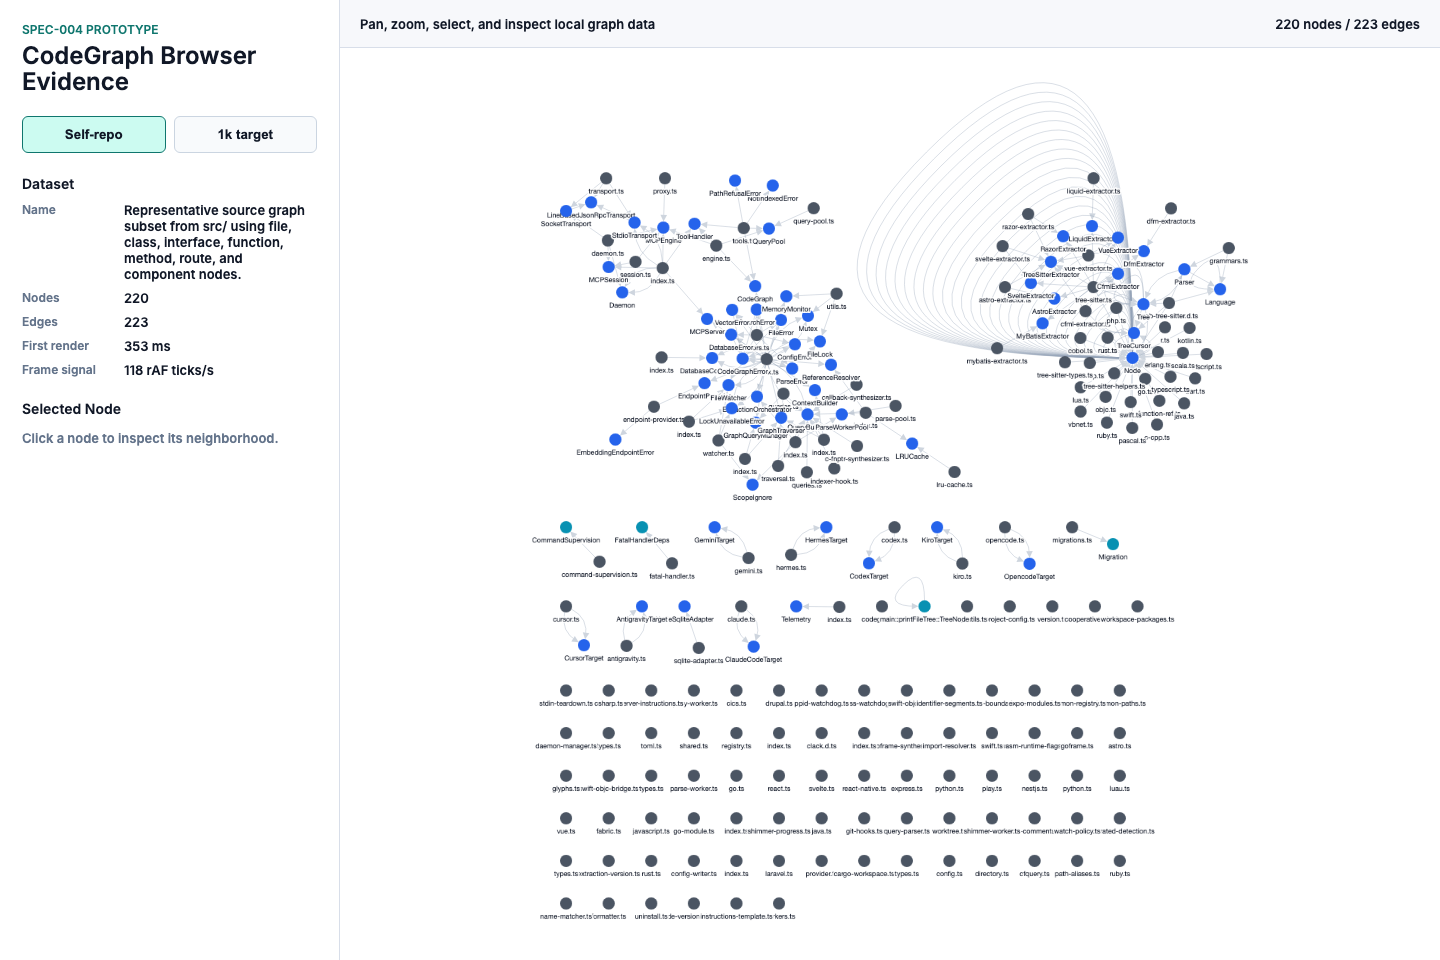
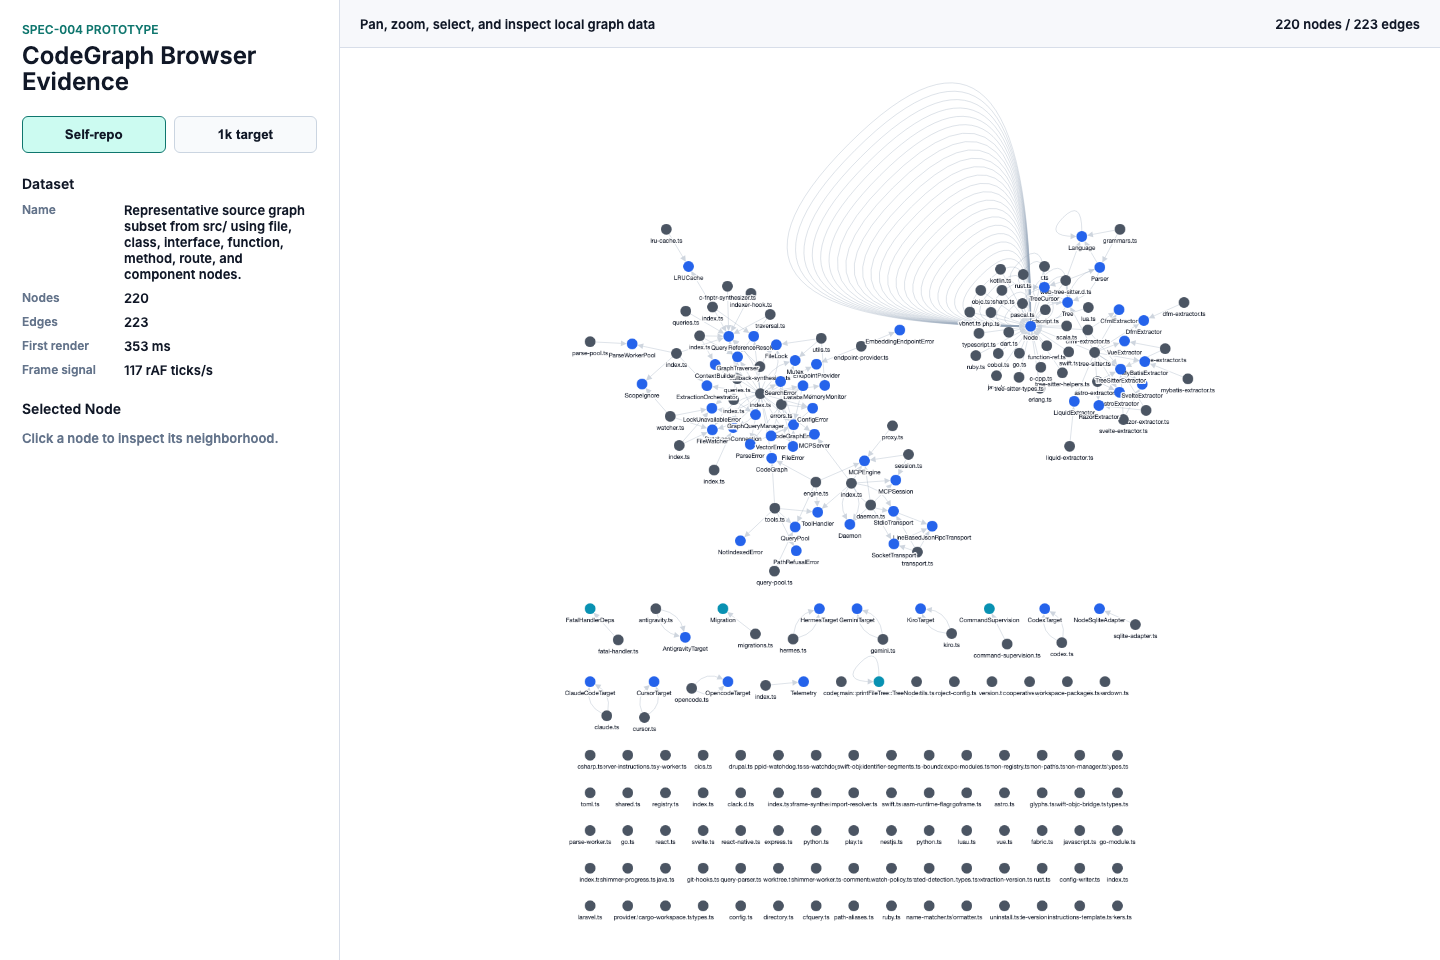
docs(SPEC-004): record manual UAT rerun

diff --git a/docs/design/web-framework-decision.md b/docs/design/web-framework-decision.md
@@ -212,6 +212,7 @@ Commands run:
 
 ```bash
 node dist/bin/codegraph.js init -i .
+node dist/bin/codegraph.js index
 node /tmp/spec-004-web-framework-research/export-codegraph-data.mjs .codegraph/codegraph.db /tmp/spec-004-web-framework-research/data
 cd /tmp/spec-004-web-framework-research/prototype
 npm install
@@ -228,14 +229,15 @@ Observed local results:
 
 | Evidence | Result |
 |----------|--------|
-| Worktree-local CodeGraph index | `codegraph init -i .` under Node 22.22.2 indexed 404 files, 5,830 nodes, and 23,848 edges in 2.3s. |
+| Worktree-local CodeGraph index | Existing initialized worktree confirmed with `codegraph init -i .`; `codegraph index` under Node 22.22.2 refreshed 404 files, 5,830 nodes, and 23,848 edges in 2.4s. |
 | Self-repo dataset | `/tmp/spec-004-web-framework-research/data/self-repo-graph.json`, 220 nodes and 223 edges, selected from `src/` file/class/interface/function/method/route/component nodes. |
 | 1k target dataset | `/tmp/spec-004-web-framework-research/data/one-k-node-target.json`, 1,000 nodes and 2,500 edges from the worktree-local CodeGraph index. |
-| Prototype install | `npm install` added 20 packages with 0 vulnerabilities; Playwright was installed as a temporary dev dependency for browser capture only. |
+| Prototype install | `npm install` and `npm install -D playwright` completed with 0 vulnerabilities; Playwright was a temporary dev dependency for browser capture only. |
 | Prototype build | `npm run build` passed; Vite reported `dist/index.html` 0.41 kB, CSS 1.39 kB gzip 0.64 kB, JS 630.81 kB gzip 199.44 kB, with the expected 500 kB chunk-size advisory. |
-| Screenshot capture | Local Playwright Chromium capture at 1440x960. The bundled REPL Playwright package existed but had no cached Chromium binary, so the run used temporary prototype-local Playwright after `npx playwright install chromium`. |
-| Self-repo render | First visible render 353 ms; frame signal 118 `requestAnimationFrame` ticks/sec. |
-| 1k target render | First visible render 139 ms; frame signal 102 `requestAnimationFrame` ticks/sec. |
+| Screenshot capture | Local Playwright Chromium capture at 1440x960 using temporary prototype-local Playwright after `npx playwright install chromium`. |
+| Self-repo render | First visible render 353 ms; frame signal 117 `requestAnimationFrame` ticks/sec. |
+| 1k target render | First visible render 145 ms; frame signal 102 `requestAnimationFrame` ticks/sec. |
+| Browser interaction and network audit | Playwright switched to the 1k dataset, zoomed the canvas, selected a node (`goframe-synthesizer.ts`), and recorded 12 browser requests with 0 non-local requests. |
 
 Prototype interaction observations:
 
@@ -299,7 +301,7 @@ Captured assets:
 
 | Asset | Caption |
 |-------|---------|
-| `docs/design/assets/spec-004/self-repo-graph.png` | Self-repo CodeGraph subset, 220 nodes and 223 edges, captured by local Playwright Chromium at 1440x960. Visible labels include parser/extractor, CLI, and target-related source nodes. Primary controls show dataset switcher, pan/zoom graph canvas, selected-node panel, and metrics. Frame signal: 118 rAF ticks/sec. |
+| `docs/design/assets/spec-004/self-repo-graph.png` | Self-repo CodeGraph subset, 220 nodes and 223 edges, captured by local Playwright Chromium at 1440x960. Visible labels include parser/extractor, CLI, and target-related source nodes. Primary controls show dataset switcher, pan/zoom graph canvas, selected-node panel, and metrics. Frame signal: 117 rAF ticks/sec. |
 | `docs/design/assets/spec-004/one-k-node-target.png` | 1k-node/60fps target, 1,000 nodes and 2,500 edges, captured by local Playwright Chromium at 1440x960. The graph shows a dense 1k-node canvas with labels and colored node-kind groups. Primary controls show dataset switcher, graph canvas, metrics, and selected-node panel. Frame signal: 102 rAF ticks/sec. |
 
 ## Self-Repo UAT Criteria

diff --git a/specs/004-web-framework-research-spike/.process/pr-body.md b/specs/004-web-framework-research-spike/.process/pr-body.md
@@ -37,7 +37,7 @@ Use the UAT runbook below for reviewer-facing acceptance checks. Treat installed
 
 # SPEC-004 UAT Runbook
 
-Status: Completed SPEC-004 UAT runbook with prototype, screenshot, verification, and final result evidence.
+Status: Completed SPEC-004 UAT runbook with prototype, screenshot, verification, and final result evidence. Manual UAT was rerun on 2026-07-05.
 
 ## Purpose
 
@@ -111,17 +111,17 @@ Expected result: No hosted runtime service is required. If any hosted runtime de
 
 ## Result Log
 
-Completed during SPEC-004 tasks.
+Completed during SPEC-004 tasks and rerun on 2026-07-05.
 
 | Check | Command or method | Outcome | Evidence path or note |
 |-------|-------------------|---------|------------------------|
 | Build | `npm run build` | Pass | Build exited 0. |
 | Test | `npm test` | Pass | 132 test files, 2,223 tests passed, 4 skipped. |
-| Self-repo data export | `codegraph init -i .` under Node 22.22.2, then `/tmp/spec-004-web-framework-research/export-codegraph-data.mjs` | Pass | Worktree-local index: 404 files, 5,830 nodes, 23,848 edges. Self dataset: 220 nodes, 223 edges. |
-| Prototype local run | `/tmp/spec-004-web-framework-research/prototype`, `npm install`, `npm run build`, `npm run dev -- --port 4174` | Pass | Vite + React + Cytoscape.js prototype built and served locally. |
-| Self-repo screenshot or fallback | `node capture-screenshots.mjs` with local Playwright Chromium | Pass | `docs/design/assets/spec-004/self-repo-graph.png`; 1440x960; first render 353 ms; 118 rAF ticks/sec. |
-| 1k-node screenshot or fallback | `node capture-screenshots.mjs` with local Playwright Chromium | Pass | `docs/design/assets/spec-004/one-k-node-target.png`; 1440x960; first render 139 ms; 102 rAF ticks/sec. |
-| No hosted runtime service | Prototype network path inspected by construction: local Vite server + local `/data/*.json` only | Pass | Implementation-time package/doc access used network; selected runtime path did not require hosted services or CDN assets. |
+| Self-repo data export | `node dist/bin/codegraph.js index` under Node 22.22.2, then `/tmp/spec-004-web-framework-research/export-codegraph-data.mjs` | Pass | Worktree-local index: 404 files, 5,830 nodes, 23,848 edges in 2.4s. Self dataset: 220 nodes, 223 edges. |
+| Prototype local run | `/tmp/spec-004-web-framework-research/prototype`, `npm install`, `npm install -D playwright`, `npx playwright install chromium`, `npm run build`, `npm run dev -- --port 4174` | Pass | Vite + React + Cytoscape.js prototype built and served locally. |
+| Self-repo screenshot or fallback | `node capture-screenshots.mjs` with local Playwright Chromium | Pass | `docs/design/assets/spec-004/self-repo-graph.png`; 1440x960; first render 353 ms; 117 rAF ticks/sec. |
+| 1k-node screenshot or fallback | `node capture-screenshots.mjs` with local Playwright Chromium | Pass | `docs/design/assets/spec-004/one-k-node-target.png`; 1440x960; first render 145 ms; 102 rAF ticks/sec. |
+| No hosted runtime service | Playwright request audit against local Vite server and `/data/*.json` files | Pass | 12 browser requests, 0 non-local requests. Implementation-time package/doc access used network; selected runtime path did not require hosted services or CDN assets. |
 | Final UAT result | Review decision doc, screenshots, and verification floor | Pass with limitation | Limitation: production large-graph UX, accessibility, search/filter/details polish, and WebGL runner-up validation remain SPEC-006 work. |
 ## Verification
 

diff --git a/specs/004-web-framework-research-spike/.process/uat-runbook.md b/specs/004-web-framework-research-spike/.process/uat-runbook.md
@@ -1,6 +1,6 @@
 # SPEC-004 UAT Runbook
 
-Status: Completed SPEC-004 UAT runbook with prototype, screenshot, verification, and final result evidence.
+Status: Completed SPEC-004 UAT runbook with prototype, screenshot, verification, and final result evidence. Manual UAT was rerun on 2026-07-05.
 
 ## Purpose
 
@@ -74,15 +74,15 @@ Expected result: No hosted runtime service is required. If any hosted runtime de
 
 ## Result Log
 
-Completed during SPEC-004 tasks.
+Completed during SPEC-004 tasks and rerun on 2026-07-05.
 
 | Check | Command or method | Outcome | Evidence path or note |
 |-------|-------------------|---------|------------------------|
 | Build | `npm run build` | Pass | Build exited 0. |
 | Test | `npm test` | Pass | 132 test files, 2,223 tests passed, 4 skipped. |
-| Self-repo data export | `codegraph init -i .` under Node 22.22.2, then `/tmp/spec-004-web-framework-research/export-codegraph-data.mjs` | Pass | Worktree-local index: 404 files, 5,830 nodes, 23,848 edges. Self dataset: 220 nodes, 223 edges. |
-| Prototype local run | `/tmp/spec-004-web-framework-research/prototype`, `npm install`, `npm run build`, `npm run dev -- --port 4174` | Pass | Vite + React + Cytoscape.js prototype built and served locally. |
-| Self-repo screenshot or fallback | `node capture-screenshots.mjs` with local Playwright Chromium | Pass | `docs/design/assets/spec-004/self-repo-graph.png`; 1440x960; first render 353 ms; 118 rAF ticks/sec. |
-| 1k-node screenshot or fallback | `node capture-screenshots.mjs` with local Playwright Chromium | Pass | `docs/design/assets/spec-004/one-k-node-target.png`; 1440x960; first render 139 ms; 102 rAF ticks/sec. |
-| No hosted runtime service | Prototype network path inspected by construction: local Vite server + local `/data/*.json` only | Pass | Implementation-time package/doc access used network; selected runtime path did not require hosted services or CDN assets. |
+| Self-repo data export | `node dist/bin/codegraph.js index` under Node 22.22.2, then `/tmp/spec-004-web-framework-research/export-codegraph-data.mjs` | Pass | Worktree-local index: 404 files, 5,830 nodes, 23,848 edges in 2.4s. Self dataset: 220 nodes, 223 edges. |
+| Prototype local run | `/tmp/spec-004-web-framework-research/prototype`, `npm install`, `npm install -D playwright`, `npx playwright install chromium`, `npm run build`, `npm run dev -- --port 4174` | Pass | Vite + React + Cytoscape.js prototype built and served locally. |
+| Self-repo screenshot or fallback | `node capture-screenshots.mjs` with local Playwright Chromium | Pass | `docs/design/assets/spec-004/self-repo-graph.png`; 1440x960; first render 353 ms; 117 rAF ticks/sec. |
+| 1k-node screenshot or fallback | `node capture-screenshots.mjs` with local Playwright Chromium | Pass | `docs/design/assets/spec-004/one-k-node-target.png`; 1440x960; first render 145 ms; 102 rAF ticks/sec. |
+| No hosted runtime service | Playwright request audit against local Vite server and `/data/*.json` files | Pass | 12 browser requests, 0 non-local requests. Implementation-time package/doc access used network; selected runtime path did not require hosted services or CDN assets. |
 | Final UAT result | Review decision doc, screenshots, and verification floor | Pass with limitation | Limitation: production large-graph UX, accessibility, search/filter/details polish, and WebGL runner-up validation remain SPEC-006 work. |